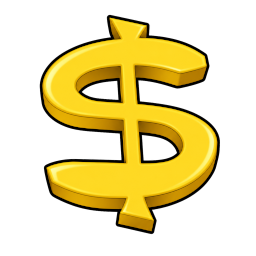
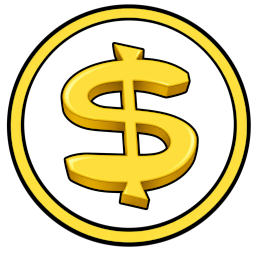
interaccion resolver v1

diff --git a/code/input/touch/touchinteractionresolver.cpp b/code/input/touch/touchinteractionresolver.cpp
@@ -1,14 +1,33 @@
 #include <input/touch/touchinteractionresolver.h>
 #include <input/touch/touchcontextresolver.h>
+
 #include <worldsim/character/charactermanager.h>
 #include <worldsim/character/character.h>
+
 #include <ai/actionbuttonhandler.h>
+
+#if defined(RAD_ANDROID)
+#include <android/log.h>
+
+#define TOUCH_INTERACTION_LOG_TAG "SimpsonsHitAndRun"
+#define TOUCH_INTERACTION_LOGI(...) __android_log_print(ANDROID_LOG_INFO, TOUCH_INTERACTION_LOG_TAG, __VA_ARGS__)
+#else
+#define TOUCH_INTERACTION_LOGI(...)
+#endif
+
+//=============================================================================
+// Singleton
+//=============================================================================
 
 TouchInteractionResolver& TouchInteractionResolver::GetInstance()
 {
     static TouchInteractionResolver sInstance;
     return sInstance;
 }
+
+//=============================================================================
+// Construction
+//=============================================================================
 
 TouchInteractionResolver::TouchInteractionResolver()
 {
@@ -22,8 +41,16 @@ void TouchInteractionResolver::Reset()
 {
 }
 
+//=============================================================================
+// Public
+//=============================================================================
+
 TouchInteractionType TouchInteractionResolver::ResolveCharacterInteraction() const
 {
+    /*
+     * Solo resolvemos acciones contextuales cuando el perfil activo es
+     * personaje a pie.
+     */
     if ( !TouchContextResolver::GetInstance().IsCharacter() )
     {
         return TOUCH_INTERACTION_NONE;
@@ -36,11 +63,19 @@ TouchInteractionType TouchInteractionResolver::ResolveCharacterInteraction() con
         return TOUCH_INTERACTION_NONE;
     }
 
+    /*
+     * Evitamos mostrar botón contextual a pie durante estados de coche,
+     * entrada o salida.
+     */
     if ( character->IsInCarOrGettingInOut() )
     {
         return TOUCH_INTERACTION_NONE;
     }
 
+    /*
+     * Esta es la clave de la arquitectura:
+     * el juego ya ha resuelto qué acción contextual está activa.
+     */
     ActionButton::ButtonHandler* handler =
         character->GetActionButtonHandler();
 
@@ -49,17 +84,17 @@ TouchInteractionType TouchInteractionResolver::ResolveCharacterInteraction() con
         return TOUCH_INTERACTION_NONE;
     }
 
+    /*
+     * Respetamos el estado interno del handler. El HUD original del juego
+     * también comprueba si la instancia está habilitada antes de mostrar
+     * el overlay del botón de acción.
+     */
     if ( !handler->IsInstanceEnabled() )
     {
         return TOUCH_INTERACTION_NONE;
     }
 
-    /*
-     * Fase 1:
-     * Cualquier acción contextual activa se muestra como exclamación.
-     * Luego refinamos por tipo de handler.
-     */
-    return TOUCH_INTERACTION_MISSION_MAIN;
+    return ConvertHandlerToInteraction( handler );
 }
 
 TouchInteractionIcon TouchInteractionResolver::ResolveCharacterInteractionIcon() const
@@ -67,4 +102,91 @@ TouchInteractionIcon TouchInteractionResolver::ResolveCharacterInteractionIcon()
     return TouchInteractionTypeToIcon(
         ResolveCharacterInteraction()
     );
+}
+
+//=============================================================================
+// Private
+//=============================================================================
+
+TouchInteractionType TouchInteractionResolver::ConvertHandlerToInteraction
+(
+    ActionButton::ButtonHandler* handler
+) const
+{
+    if ( handler == 0 )
+    {
+        return TOUCH_INTERACTION_NONE;
+    }
+
+    const ActionButton::ButtonHandler::Type type = handler->GetType();
+
+/*
+#if defined(RAD_ANDROID)
+    TOUCH_INTERACTION_LOGI(
+        "[TouchInteraction] handler=%p type=%d",
+        handler,
+        static_cast<int>( type )
+    );
+#endif
+*/
+
+    switch ( type )
+    {
+        case ActionButton::ButtonHandler::GET_IN_USER_CAR:
+        case ActionButton::ButtonHandler::GET_IN_CAR:
+        {
+            return TOUCH_INTERACTION_ENTER_CAR;
+        }
+
+        case ActionButton::ButtonHandler::SUMMON_PHONE:
+        {
+            return TOUCH_INTERACTION_PHONE_BOOTH;
+        }
+
+        case ActionButton::ButtonHandler::INTERIOR:
+        case ActionButton::ButtonHandler::TELEPORT:
+        {
+            return TOUCH_INTERACTION_INTERIOR_DOOR;
+        }
+
+        case ActionButton::ButtonHandler::PURCHASE_CAR:
+        {
+            return TOUCH_INTERACTION_PURCHASE;
+        }
+
+        case ActionButton::ButtonHandler::PURCHASE_SKIN:
+        {
+            return TOUCH_INTERACTION_CLOTHING;
+        }
+
+        case ActionButton::ButtonHandler::MISSION_OBJECTIVE:
+        {
+            return TOUCH_INTERACTION_MISSION_MAIN;
+        }
+
+        case ActionButton::ButtonHandler::GAG:
+        {
+            /*
+             * Decisión de arquitectura:
+             * cualquier gag usa exclamación.
+             */
+            return TOUCH_INTERACTION_MISSION_MAIN;
+        }
+
+        case ActionButton::ButtonHandler::COLLECTOR_CARD:
+        case ActionButton::ButtonHandler::ALIEN_CAMERA:
+        case ActionButton::ButtonHandler::WRENCH_ICON:
+        case ActionButton::ButtonHandler::NITRO_ICON:
+        case ActionButton::ButtonHandler::OTHER:
+        default:
+        {
+            /*
+             * Fallback robusto:
+             * Si el juego dice que hay una acción contextual activa pero
+             * no entra en una categoría visual específica,  no mostramos NADA 
+             * 
+             */
+            return TOUCH_INTERACTION_MISSION_MAIN;
+        }
+    }
 }

diff --git a/code/input/touch/touchhudsystem.cpp b/code/input/touch/touchhudsystem.cpp
@@ -137,14 +137,16 @@ void TouchHudSystem::Reset()
     mEnabled = true;
     mCurrentProfile = TOUCH_PROFILE_HIDDEN;
 
+    mCurrentInteractionType = TOUCH_INTERACTION_NONE;
+    mCurrentInteractionIcon = TOUCH_INTERACTION_ICON_NONE;
+
     ClearActiveTouches();
 
     if ( mControlCount == 0 )
     {
         InitializeDefaultControls();
     }
-    mCurrentInteractionType = TOUCH_INTERACTION_NONE;
-    mCurrentInteractionIcon = TOUCH_INTERACTION_ICON_NONE;
+    
 }
 
 void TouchHudSystem::SetEnabled( bool enabled )
@@ -199,13 +201,10 @@ bool TouchHudSystem::IsControlVisible( TouchHudControlId controlId ) const
 
         case TOUCH_HUD_CONTROL_CHARACTER_SECONDARY_CONTEXT_ACTION:
         {
-            /*
-             * Recomendación inicial:
-             * desactivarlo mientras usamos un único botón contextual dinámico.
-             *
-             * Más adelante podría ser un segundo slot si detectamos dos
-             * interacciones simultáneas.
-             */
+            /*Lo desactive para un inicio pero quizas lo vuelva a habilitar para tener 
+            * la puerta del coche entrar  como un caso aparte aunque aun no lo se seguro
+            * Tambien su touchRect fue puesto a false, ojo ahi si luego se quiere habilitar
+            */
             return false;
         }
 
@@ -231,6 +230,8 @@ void TouchHudSystem::Update( unsigned int elapsedMs )
      */
     if ( RejectTouchInputIfSuppressed() )
     {
+        mCurrentInteractionType = TOUCH_INTERACTION_NONE;
+        mCurrentInteractionIcon = TOUCH_INTERACTION_ICON_NONE;
         return;
     }
 
@@ -1148,10 +1149,7 @@ const TouchHudControlDefinition* TouchHudSystem::FindControlAtPosition
 {
     unsigned int i = 0;
 
-    /*
-     * Iterate from last to first so later controls have priority if rectangles
-     * overlap. This is useful for buttons on top of general drag areas later.
-     */
+    
     for ( i = mControlCount; i > 0; --i )
     {
         const TouchHudControlDefinition& control = mControls[ i - 1 ];

diff --git a/code/input/touch/touchinteractionresolver.h b/code/input/touch/touchinteractionresolver.h
@@ -3,6 +3,11 @@
 
 #include <input/touch/touchtypes.h>
 
+namespace ActionButton
+{
+    class ButtonHandler;
+}
+
 class TouchInteractionResolver
 {
 public:
@@ -19,6 +24,11 @@ private:
 
     TouchInteractionResolver( const TouchInteractionResolver& );
     TouchInteractionResolver& operator=( const TouchInteractionResolver& );
+
+    TouchInteractionType ConvertHandlerToInteraction
+    (
+        ActionButton::ButtonHandler* handler
+    ) const;
 };
 
 #endif // TOUCHINTERACTIONRESOLVER_H_

diff --git a/code/input/touch/touchassetextractor.cpp b/code/input/touch/touchassetextractor.cpp
@@ -17,7 +17,7 @@
 #endif
 
 // Increase this when you change bundled touch PNGs and want to force recopy.
-static const char* TOUCH_ASSET_VERSION = "3";
+static const char* TOUCH_ASSET_VERSION = "5";
 
 
 static const char* TOUCH_ASSET_FILES[] =